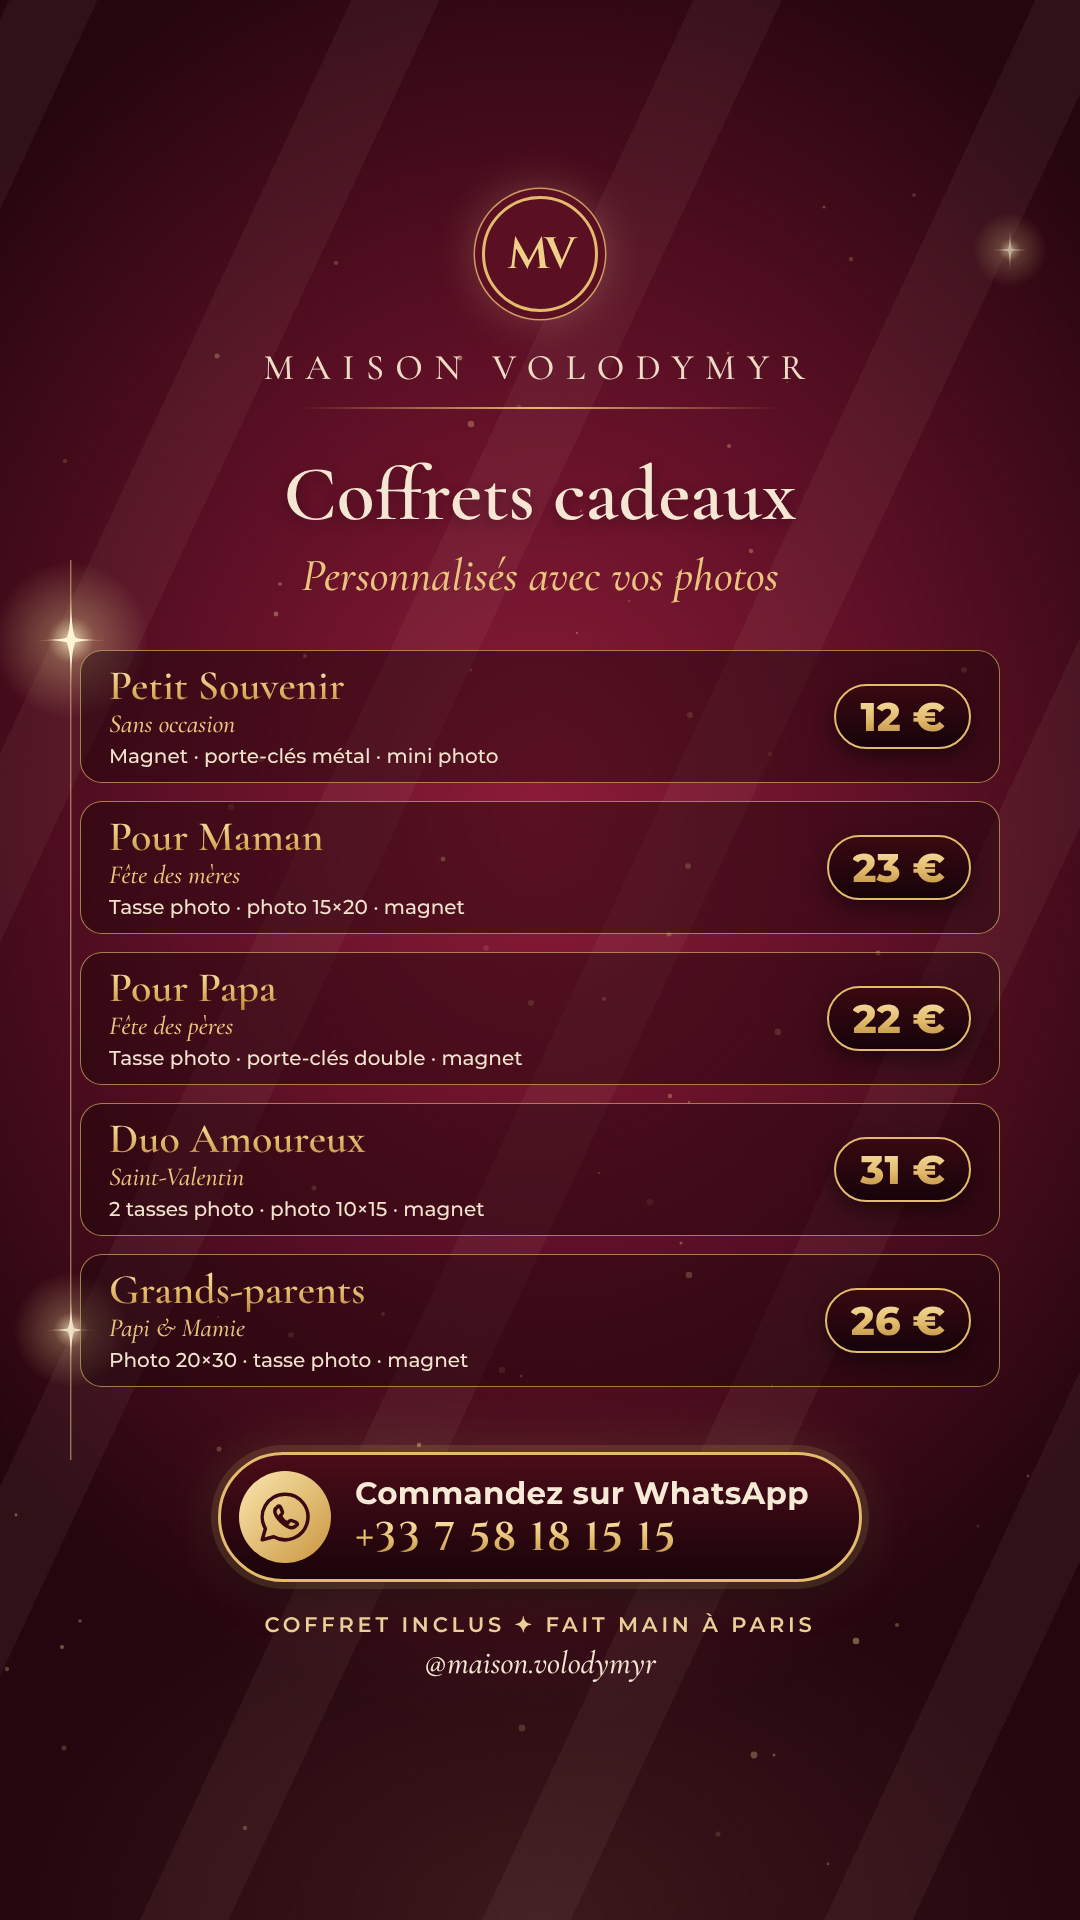
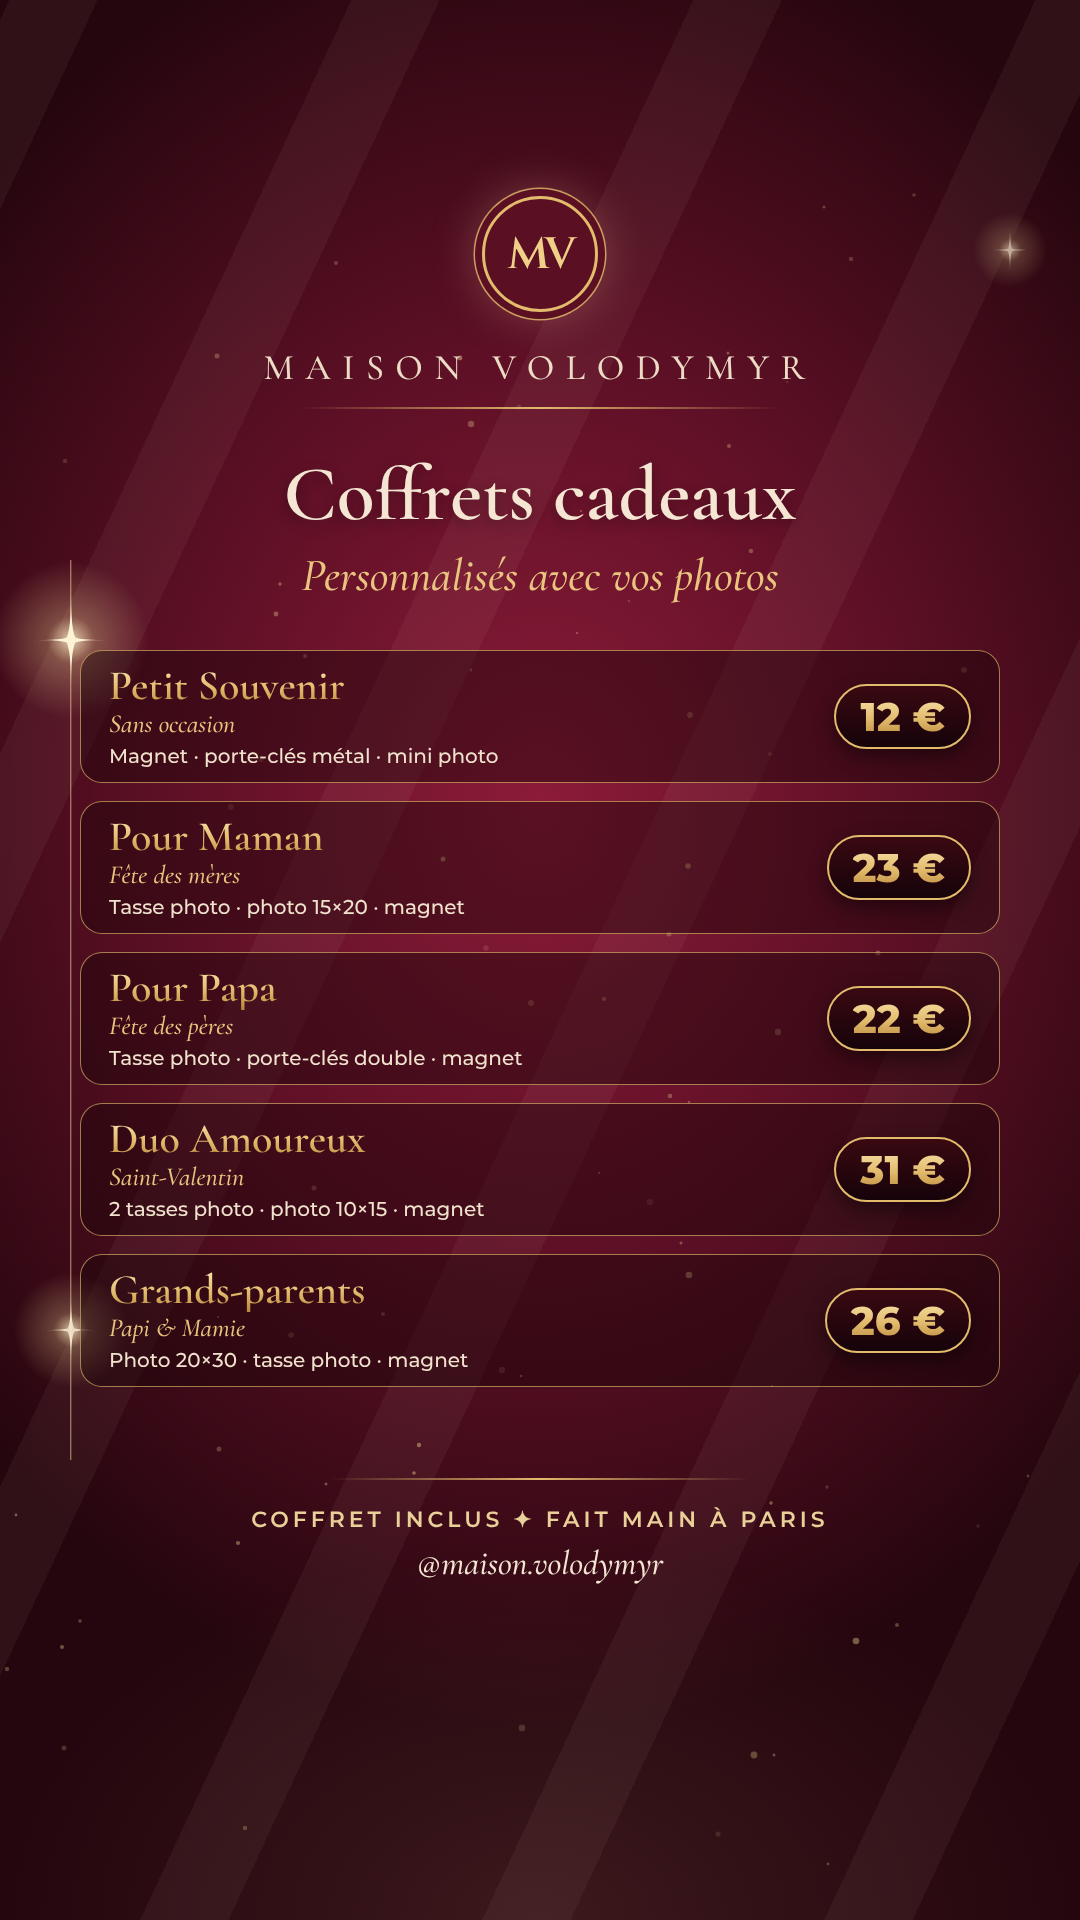
WhatsApp button only on Commander and last coffret story; optional toggle in studio
Claude-Session: https://claude.ai/code/session_01NVYZfQU8cBxnfbyUcCNFxq

Changed region(s): [[0.1833, 0.75, 0.825, 0.875]]

diff --git a/coffrets/generate_stories.js b/coffrets/generate_stories.js
@@ -37,7 +37,7 @@ const SETS=[
  ['Coffret Prestige','Le grand cadeau','Photo 30×40 · tasse · pendentif · porte-clés double · magnet','51 €','Prestige','56 €'],
  ['Prestige Duo','Pour deux familles','Photo 30×40 · 2 tasses · 2 pendentifs · 2 magnets','66 €','Prestige','72 €']
 ];
-const story=(title,sub,list)=>`<!doctype html><html><head><meta charset="utf-8">${FONTS}<style>
+const story=(title,sub,list,cta)=>`<!doctype html><html><head><meta charset="utf-8">${FONTS}<style>
 *{box-sizing:border-box;margin:0}body{width:1080px;height:1920px;overflow:hidden;position:relative;background:#25060e;font-family:Montserrat,sans-serif;color:#f4e6d3}
 .top{position:absolute;top:196px;left:0;right:0;text-align:center}
 .mono{width:116px;height:116px;margin:0 auto;border-radius:50%;background:#5a0f22;border:3px solid #e2bb6c;box-shadow:0 0 0 7px #5a0f22,0 0 0 8.5px rgba(226,187,108,.8),0 0 50px rgba(255,200,170,.35);display:grid;place-items:center;font:600 44px Cinzel,serif;color:#f0cf88;letter-spacing:-4px}
@@ -52,7 +52,7 @@ h1{font:600 78px/1 "Cormorant Garamond",serif;margin-top:46px;text-shadow:0 4px 
 .p{flex:none;border:2.5px solid #e2bb6c;border-radius:99px;background:linear-gradient(#3a0911,#16030a);padding:6px 24px;font:800 40px Montserrat,sans-serif;box-shadow:0 8px 20px rgba(0,0,0,.45)}
 .p span{background:linear-gradient(#fbe7b0,#e2bb6c 55%,#b8863a);-webkit-background-clip:text;background-clip:text;color:transparent}
 .rib{position:absolute;top:-14px;right:26px;background:linear-gradient(135deg,#f3d996,#c9963f);color:#2a0b10;font-size:15px;font-weight:700;padding:3px 14px;border-radius:99px;letter-spacing:.08em;text-transform:uppercase}
-.foot{position:absolute;top:1452px;left:0;right:0;text-align:center}.f1{font-weight:600;font-size:21px;letter-spacing:.18em;color:#e9cf98;margin-top:30px}.f2{font:italic 500 32px "Cormorant Garamond",serif;margin-top:6px}
+.foot{position:absolute;top:1452px;left:0;right:0;text-align:center}.foot.soft{top:1478px}.foot.soft .line{margin:0 auto 26px;width:420px;height:1.6px;background:linear-gradient(90deg,transparent,#e2bb6c,transparent)}.soft .f1{margin-top:0;font-size:22px}.soft .f2{font-size:34px;margin-top:10px}.f1{font-weight:600;font-size:21px;letter-spacing:.18em;color:#e9cf98;margin-top:30px}.f2{font:italic 500 32px "Cormorant Garamond",serif;margin-top:6px}
 .gold{background:linear-gradient(#fbe7b0,#e2bb6c 55%,#b8863a);-webkit-background-clip:text;background-clip:text;color:transparent}
 .cta{display:inline-flex;align-items:center;gap:24px;padding:16px 50px 16px 18px;border:3px solid #e2bb6c;border-radius:99px;background:linear-gradient(#4a0c18,#1a040a);box-shadow:0 0 0 7px rgba(226,187,108,.14),0 14px 34px rgba(0,0,0,.5),0 0 60px rgba(243,217,150,.18);text-align:left}
 .cta .ic{flex:none;width:92px;height:92px;border-radius:50%;background:linear-gradient(135deg,#fbe7b0,#c9963f);display:grid;place-items:center}
@@ -61,9 +61,9 @@ h1{font:600 78px/1 "Cormorant Garamond",serif;margin-top:46px;text-shadow:0 4px 
 </style></head><body>${BG}<svg viewBox="0 0 1080 1920" width="1080" height="1920" style="position:absolute;inset:0">${DEFS}${dots()}<rect x="70" y="560" width="1.4" height="900" fill="rgba(243,217,150,.5)"/>${STAR(71,640,46)}${STAR(71,1330,34,.9)}${STAR(1010,250,22,.7)}</svg>
 <div class="top"><div class="mono">MV</div><div class="brand">MAISON VOLODYMYR</div><div class="line"></div><h1>${title}</h1><div class="sub">${sub}</div></div>
 <div class="list">${list.map(s=>`<div class="c ${s[4]?'hl':''}">${s[4]?`<span class="rib">${s[4]}</span>`:''}<div class="tx"><div class="n">${s[0]}</div><div class="o">${s[1]}</div><div class="ct">${s[2]}</div></div><div class="pw">${s[5]?`<span class="was">${s[5]}</span>`:''}<div class="p"><span>${s[3]}</span></div></div></div>`).join('')}</div>
-<div class="foot">${CTA}<div class="f1">COFFRET INCLUS  ✦  FAIT MAIN À PARIS</div><div class="f2">@maison.volodymyr</div></div></body></html>`;
+${cta?`<div class="foot">${CTA}`:`<div class="foot soft"><div class="line"></div>`}<div class="f1">COFFRET INCLUS  ✦  FAIT MAIN À PARIS</div><div class="f2">@maison.volodymyr</div></div></body></html>`;
 (async()=>{const b=await chromium.launch();const p=await b.newPage({viewport:{width:1080,height:1920}});
  for(const k of Object.keys(ICONS)){await p.setContent(cover(k),{waitUntil:'networkidle'});await p.screenshot({path:`/home/user/geniy/instagram/covers/${k}.png`});}
  await p.setContent(story('Coffrets cadeaux','Personnalisés avec vos photos',SETS.slice(0,5)),{waitUntil:'networkidle'});await p.evaluate(()=>document.fonts.ready);await p.screenshot({path:'/home/user/geniy/coffrets/story_coffrets_1.png'});
- await p.setContent(story('Nos grands coffrets','Pour les plus beaux cadeaux',SETS.slice(5)),{waitUntil:'networkidle'});await p.evaluate(()=>document.fonts.ready);await p.screenshot({path:'/home/user/geniy/coffrets/story_coffrets_2.png'});
+ await p.setContent(story('Nos grands coffrets','Pour les plus beaux cadeaux',SETS.slice(5),1),{waitUntil:'networkidle'});await p.evaluate(()=>document.fonts.ready);await p.screenshot({path:'/home/user/geniy/coffrets/story_coffrets_2.png'});
  await b.close()})();

diff --git a/studio/studio.html b/studio/studio.html
@@ -58,7 +58,7 @@ input[type=range]{width:100%;accent-color:var(--gold)}
 <script>
 const W=1080,H=1920,cv=document.getElementById('cv'),ctx=cv.getContext('2d');
 const DISP='"Cinzel",Georgia,serif',ITAL='italic 600 {s}px "Cormorant Garamond",Georgia,serif',SANS='Montserrat,Arial,sans-serif';
-const FOOT={c1:'Commandez sur WhatsApp',c2:'+33 7 58 18 15 15',f1:'FAIT MAIN À PARIS  ✦  AVEC VOS PHOTOS',f2:'@maison.volodymyr'};
+const FOOT={on:false,c1:'Commandez sur WhatsApp',c2:'+33 7 58 18 15 15',f1:'FAIT MAIN À PARIS  ✦  AVEC VOS PHOTOS',f2:'@maison.volodymyr'};
 const SL=[
  {id:'tasses',name:'☕ Кружки',title:'Tasses photo',sub:'Votre photo, votre cadeau',f:{p:'',cap:'La tasse personnalisée'},fl:{p:'Цена кружки',cap:'Подпись'},
   el:[{t:'slot',x:80,y:670,w:580,h:690,k:'mug'},{t:'slot',x:690,y:670,w:310,h:330,k:'mug'},{t:'slot',x:690,y:1030,w:310,h:330,k:'mug'},{t:'pill',x:370,y:1360,txt:'{p}'},{t:'it',x:540,y:1450,txt:'{cap}',s:36}]},
@@ -105,7 +105,7 @@ function header(s){
 }
 const WA=[new Path2D('M32 6a26 26 0 0 0-22.4 39.2L6 58l13.2-3.5A26 26 0 1 0 32 6z'),new Path2D('M23 21c1-2 3-2 4 0l2 5c.4 1-.2 2-1 3l-1.5 1.5c1.8 3.8 4.8 6.8 8.6 8.6L36.6 37c1-.8 2-1.4 3-1l5 2c2 1 2 3 0 4-3 3-8 3-14-2-5-4-9-9-10-13-.6-3 .4-5 2.4-6z')];
 function footer(){
- const c1=FOOT.c1.trim(),c2=FOOT.c2.trim();let fy=1548;
+ const c1=FOOT.on?FOOT.c1.trim():'',c2=FOOT.on?FOOT.c2.trim():'';let fy=1548;
  if(c1||c2){
   const f1='700 31px '+SANS,f2='600 40px '+DISP;ctx.font=f1;let tw=ctx.measureText(c1).width;ctx.font=f2;tw=Math.max(tw,ctx.measureText(c2).width+c2.length*2);
   const h=124,w=18+92+24+tw+50,x=540-w/2,y=1500;
@@ -179,7 +179,8 @@ function panel(){
  const s=SL[cur];
  $('#panel').innerHTML=`<h2>Фото</h2>${slotsOf(s).map((e,i)=>{const d=IM[s.id+'.'+i];return `<div class="slot"><div class="row"><b>Рамка ${i+1}${e.tag?' · '+esc(fill(s,e.tag)):''}</b><button class="btn" data-pick="${i}">${d?'Заменить':'Вставить фото'}</button>${d?`<button class="btn x" data-del="${i}" aria-label="Убрать фото">×</button>`:''}</div>${d?`<div><label for="z${i}">Масштаб</label><input type="range" id="z${i}" min="0.5" max="3" step="0.01" value="${d.zoom}" data-zoom="${i}"><label for="ox${i}">Влево ↔ вправо</label><input type="range" id="ox${i}" min="${-e.w}" max="${e.w}" step="1" value="${d.ox}" data-ox="${i}"><label for="oy${i}">Вверх ↕ вниз</label><input type="range" id="oy${i}" min="${-e.h}" max="${e.h}" step="1" value="${d.oy}" data-oy="${i}"></div>`:''}</div>`}).join('')}
  <h2>Тексты и цены</h2>${Object.keys(s.f).map(k=>`<div><label for="f_${k}">${esc(s.fl[k]||k)}</label>${(s.ta||[]).includes(k)?`<textarea id="f_${k}" rows="6" data-f="${k}" style="width:100%;padding:9px 11px;border-radius:10px;border:1px solid var(--line);background:#1f070b;color:var(--ink);font:inherit;resize:vertical">${esc(s.f[k])}</textarea>`:`<input type="text" id="f_${k}" value="${esc(s.f[k])}" data-f="${k}">`}</div>`).join('')}
- <div><label for="fc1">Кнопка, строка 1 (сотри обе строки — кнопка исчезнет)</label><input type="text" id="fc1" value="${esc(FOOT.c1)}" data-foot="c1"></div><div><label for="fc2">Кнопка, строка 2</label><input type="text" id="fc2" value="${esc(FOOT.c2)}" data-foot="c2"></div>
+ <label style="display:flex;gap:10px;align-items:center;cursor:pointer"><input type="checkbox" id="fon" data-foot-on ${FOOT.on?'checked':''} style="width:22px;height:22px">Кнопка WhatsApp внизу (только на 1 сторис из серии)</label>
+ <div><label for="fc1">Кнопка, строка 1</label><input type="text" id="fc1" value="${esc(FOOT.c1)}" data-foot="c1"></div><div><label for="fc2">Кнопка, строка 2</label><input type="text" id="fc2" value="${esc(FOOT.c2)}" data-foot="c2"></div>
  <div><label for="ft1">Нижняя полоса, строка 1</label><input type="text" id="ft1" value="${esc(FOOT.f1)}" data-foot="f1"></div><div><label for="ft2">Нижняя полоса, строка 2</label><input type="text" id="ft2" value="${esc(FOOT.f2)}" data-foot="f2"></div>
  <button class="btn main" id="save">Сохранить PNG</button><div class="msg" id="msg" role="status"></div>`;
 }
@@ -190,6 +191,7 @@ $('#panel').addEventListener('click',e=>{const p=e.target.closest('[data-pick]')
 $('#panel').addEventListener('input',e=>{const t=e.target;
  if(t.dataset.f){SL[cur].f[t.dataset.f]=t.value;draw()}
  if(t.dataset.foot){FOOT[t.dataset.foot]=t.value;draw()}
+ if('footOn' in t.dataset){FOOT.on=t.checked;draw()}
  if(t.dataset.zoom){const d=IM[SL[cur].id+'.'+t.dataset.zoom];if(d){d.zoom=+t.value;draw()}}
  if(t.dataset.ox){const d=IM[SL[cur].id+'.'+t.dataset.ox];if(d){d.ox=+t.value;draw()}}
  if(t.dataset.oy){const d=IM[SL[cur].id+'.'+t.dataset.oy];if(d){d.oy=+t.value;draw()}}});

diff --git a/instagram/generate_pack.js b/instagram/generate_pack.js
@@ -17,17 +17,17 @@ const CSS=`<style>*{box-sizing:border-box;margin:0}body{width:1080px;height:1920
 h1{font:600 78px/1 "Cormorant Garamond",serif;margin-top:46px;text-shadow:0 4px 14px rgba(0,0,0,.35)}.sub{font:italic 500 46px "Cormorant Garamond",serif;color:#e9c47e;margin-top:14px}
 .gold{background:linear-gradient(#fbe7b0,#e2bb6c 55%,#b8863a);-webkit-background-clip:text;background-clip:text;color:transparent}
 .pill{display:inline-block;border:2.5px solid #e2bb6c;border-radius:99px;background:linear-gradient(#3a0911,#16030a);padding:6px 26px;font:800 40px Montserrat,sans-serif;box-shadow:0 8px 20px rgba(0,0,0,.45)}
-.foot{position:absolute;top:1452px;left:0;right:0;text-align:center}.f1{font-weight:600;font-size:21px;letter-spacing:.18em;color:#e9cf98;margin-top:30px}.f2{font:italic 500 32px "Cormorant Garamond",serif;margin-top:6px}
+.foot{position:absolute;top:1452px;left:0;right:0;text-align:center}.foot.soft{top:1478px}.foot.soft .line{margin:0 auto 26px;width:420px}.f1{font-weight:600;font-size:21px;letter-spacing:.18em;color:#e9cf98;margin-top:30px}.soft .f1{margin-top:0;font-size:22px}.soft .f2{font-size:34px;margin-top:10px}.f2{font:italic 500 32px "Cormorant Garamond",serif;margin-top:6px}
 .cta{display:inline-flex;align-items:center;gap:24px;padding:16px 50px 16px 18px;border:3px solid #e2bb6c;border-radius:99px;background:linear-gradient(#4a0c18,#1a040a);box-shadow:0 0 0 7px rgba(226,187,108,.14),0 14px 34px rgba(0,0,0,.5),0 0 60px rgba(243,217,150,.18);text-align:left}
 .cta .ic{flex:none;width:92px;height:92px;border-radius:50%;background:linear-gradient(135deg,#fbe7b0,#c9963f);display:grid;place-items:center}
 .cta .b1{font:700 31px Montserrat,sans-serif;color:#f6e9d6;letter-spacing:.01em}.cta .b2{font:600 40px/1.1 Cinzel,serif;letter-spacing:.05em;margin-top:4px}
 </style>`;
 const CTA=`<div class="cta"><div class="ic"><svg viewBox="0 0 64 64" width="56" height="56"><g fill="none" stroke="#3a0911" stroke-width="4" stroke-linecap="round" stroke-linejoin="round"><path d="M32 6a26 26 0 0 0-22.4 39.2L6 58l13.2-3.5A26 26 0 1 0 32 6z"/><path d="M23 21c1-2 3-2 4 0l2 5c.4 1-.2 2-1 3l-1.5 1.5c1.8 3.8 4.8 6.8 8.6 8.6L36.6 37c1-.8 2-1.4 3-1l5 2c2 1 2 3 0 4-3 3-8 3-14-2-5-4-9-9-10-13-.6-3 .4-5 2.4-6z"/></g></svg></div><div><div class="b1">Commandez sur WhatsApp</div><div class="b2 gold">+33 7 58 18 15 15</div></div></div>`;
-const page=(inner,{title,sub,f1})=>`<!doctype html><html><head><meta charset="utf-8">${FONTS}${CSS}</head><body>${BG}
+const page=(inner,{title,sub,f1,cta})=>`<!doctype html><html><head><meta charset="utf-8">${FONTS}${CSS}</head><body>${BG}
 <svg viewBox="0 0 1080 1920" width="1080" height="1920" style="position:absolute;inset:0">${DEFS}${dots()}<rect x="70" y="560" width="1.4" height="900" fill="rgba(243,217,150,.5)"/>${STAR(71,640,46)}${STAR(71,1330,34,.9)}${STAR(1010,250,22,.7)}</svg>
 <div class="top"><div class="mono">MV</div><div class="brand">MAISON VOLODYMYR</div><div class="line"></div><h1>${title}</h1><div class="sub">${sub}</div></div>
 ${inner}
-<div class="foot">${CTA}<div class="f1">${f1}</div><div class="f2">@maison.volodymyr</div></div></body></html>`;
+${cta?`<div class="foot">${CTA}`:`<div class="foot soft"><div class="line"></div>`}<div class="f1">${f1}</div><div class="f2">@maison.volodymyr</div></div></body></html>`;
 
 /* ---------- avatar ---------- */
 const avatar=`<!doctype html><html><head><meta charset="utf-8">${FONTS}</head><body style="margin:0;width:1080px;height:1080px;overflow:hidden;position:relative;background:#25060e">
@@ -54,7 +54,7 @@ ${step(1,'wa','Ouvrez WhatsApp','Écrivez-nous ce que vous souhaitez commander.'
 ${step(2,'photo','Envoyez votre photo','Celle que vous voulez sur votre cadeau.')}
 ${step(3,'gift','Récupérez votre cadeau','Fait main, avec amour.')}
 <div style="text-align:center;font:italic 500 38px 'Cormorant Garamond',serif;color:#e9c47e;margin-top:6px">Une question ? On vous répond vite ✦</div></div>`,
-{title:'Comment commander',sub:'Simple comme un sourire',f1:'FAIT MAIN À PARIS  ✦  AVEC VOS PHOTOS'});
+{title:'Comment commander',sub:'Simple comme un sourire',f1:'FAIT MAIN À PARIS  ✦  AVEC VOS PHOTOS',cta:1});
 
 /* ---------- Tarifs ---------- */
 const row=(n,p)=>`<div style="display:flex;align-items:baseline;gap:14px;font-size:30px;color:#f4e6d3;padding:3px 0"><span>${n}</span><span style="flex:1;border-bottom:2px dotted rgba(226,187,108,.55);transform:translateY(-8px)"></span><b class="gold" style="font:800 34px Montserrat">${p}</b></div>`;
